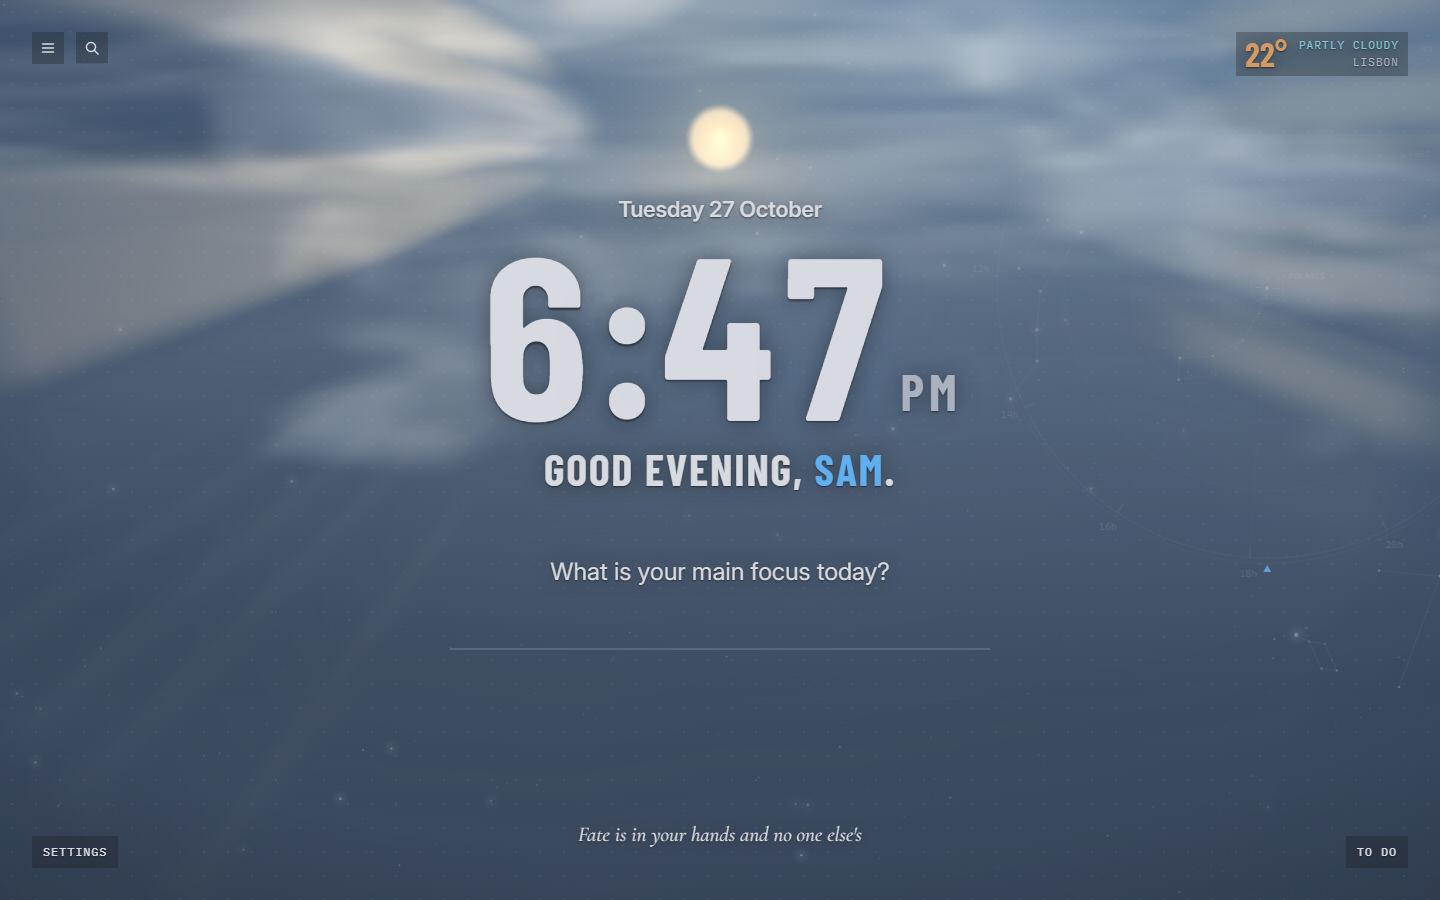
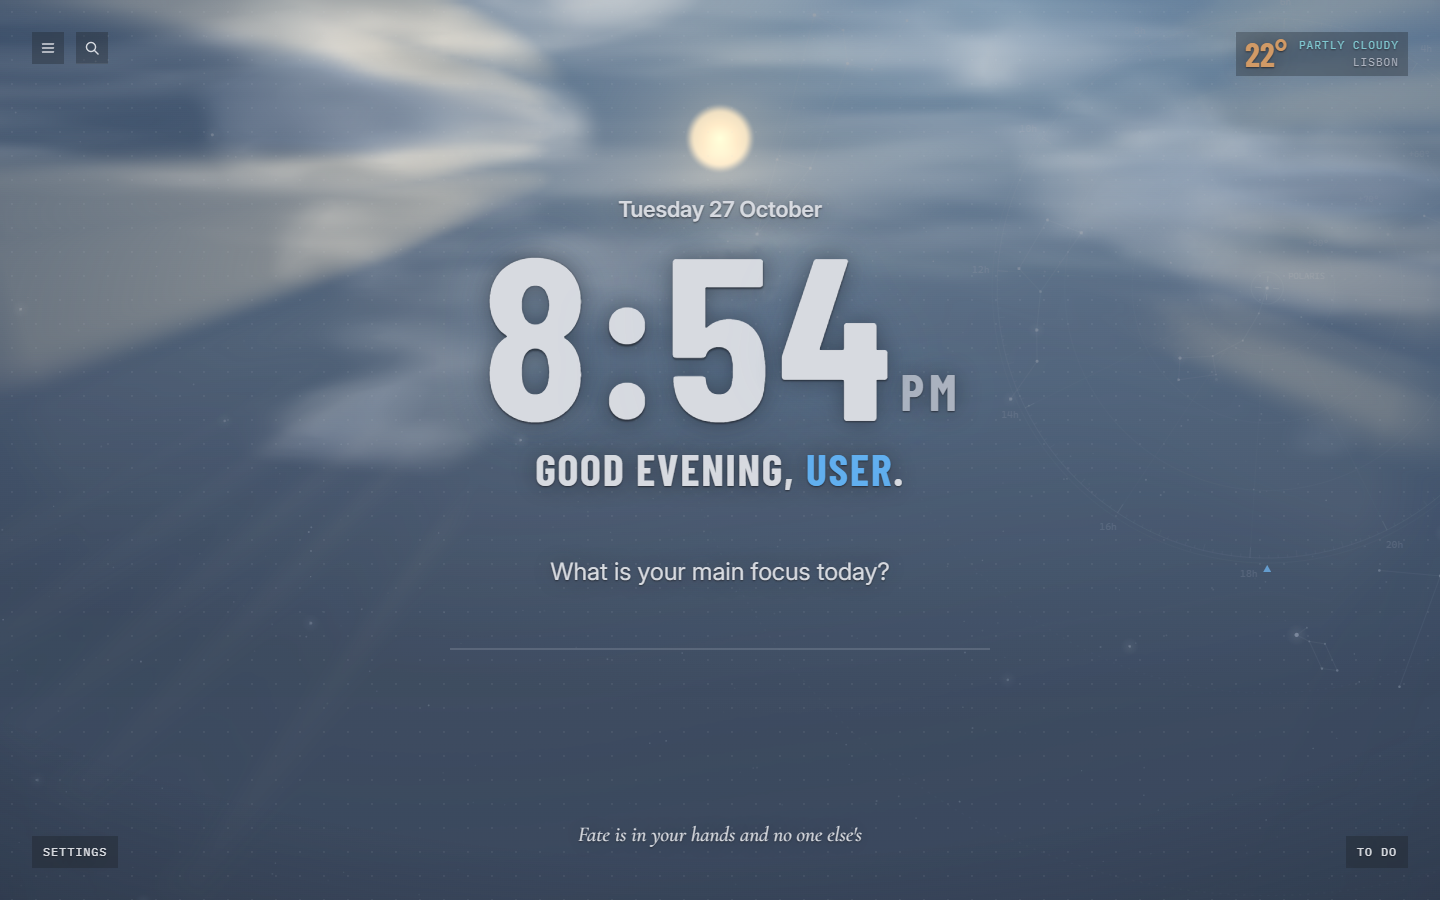
Add release zips and a GitHub Pages demo, use a neutral name in screenshots

diff --git a/tools/release.ts b/tools/release.ts
@@ -1,0 +1,37 @@
+// Builds release/: a zip of each extension for GitHub releases, and site/, the new tab as a static demo.
+import { execFileSync } from 'node:child_process';
+import { cpSync, mkdirSync, rmSync, writeFileSync } from 'node:fs';
+import { join } from 'node:path';
+import { build, EXTENSIONS, root } from './extensions.ts';
+
+const out = join(root, 'release');
+const stage = join(out, 'stage');
+
+function zip(dir: string, folder: string, file: string): void {
+  // Windows and macOS ship bsdtar, which writes zips; Linux has zip.
+  if (process.platform === 'win32') {
+    execFileSync(join(process.env.SystemRoot ?? 'C:/Windows', 'System32', 'tar.exe'), ['-a', '-cf', file, folder], { cwd: dir });
+  } else if (process.platform === 'darwin') {
+    execFileSync('tar', ['-a', '-cf', file, folder], { cwd: dir });
+  } else {
+    execFileSync('zip', ['-qr', file, folder], { cwd: dir });
+  }
+}
+
+build();
+rmSync(out, { recursive: true, force: true });
+
+for (const { slug, src, files } of EXTENSIONS) {
+  const dest = join(stage, slug);
+  for (const f of files) cpSync(join(root, src, f), join(dest, f), { recursive: true });
+  zip(stage, slug, join(out, `${slug}.zip`));
+  console.log(`release/${slug}.zip`);
+}
+
+const site = join(out, 'site');
+for (const f of ['newtab.css', 'onedark.css', 'dist', 'data', 'vendor']) cpSync(join(root, 'newtab', f), join(site, f), { recursive: true });
+cpSync(join(root, 'newtab', 'newtab.html'), join(site, 'index.html'));
+// GitHub Pages runs Jekyll by default, which drops files starting with "_" such as vendor/backdrops/_core.js.
+writeFileSync(join(site, '.nojekyll'), '');
+rmSync(stage, { recursive: true, force: true });
+console.log('release/site/');

diff --git a/tools/pages.ts b/tools/pages.ts
@@ -1,0 +1,36 @@
+// Commits release/site/ to the gh-pages branch and pushes it. Run `pnpm run release` first.
+import { execFileSync } from 'node:child_process';
+import { existsSync, mkdtempSync, rmSync } from 'node:fs';
+import { tmpdir } from 'node:os';
+import { join } from 'node:path';
+import { root } from './extensions.ts';
+
+const site = join(root, 'release', 'site');
+if (!existsSync(join(site, 'index.html'))) throw new Error('release/site is missing; run `pnpm run release` first.');
+
+// A separate index stages the site without touching the working tree or the current branch.
+const tmp = mkdtempSync(join(tmpdir(), 'pages-'));
+const env = { ...process.env, GIT_INDEX_FILE: join(tmp, 'index') };
+const git = (...args: string[]) => execFileSync('git', args, { cwd: root, env, encoding: 'utf8' }).trim();
+
+try {
+  git(`--work-tree=${site}`, 'add', '--all', '--force', '.');
+  const tree = git('write-tree');
+  const source = git('rev-parse', '--short', 'HEAD');
+  let parent: string[] = [];
+  try {
+    git('fetch', 'origin', 'gh-pages');
+    parent = ['-p', git('rev-parse', 'FETCH_HEAD')];
+  } catch {
+    // First deploy: the branch doesn't exist yet.
+  }
+  if (parent.length && git('rev-parse', `${parent[1]}^{tree}`) === tree) {
+    console.log('gh-pages is already up to date.');
+  } else {
+    const commit = git('commit-tree', tree, ...parent, '-m', `Deploy demo from ${source}`);
+    git('push', 'origin', `${commit}:refs/heads/gh-pages`);
+    console.log(`Pushed ${commit.slice(0, 7)} to gh-pages.`);
+  }
+} finally {
+  rmSync(tmp, { recursive: true, force: true });
+}

diff --git a/tools/export.ts b/tools/export.ts
@@ -1,22 +1,13 @@
 // Builds the new tab and copies both unpacked extensions to ~/DevApps/Nightglass (or EXPORT_DIR).
-import { execSync } from 'node:child_process';
 import { cpSync, mkdirSync, rmSync } from 'node:fs';
 import { homedir } from 'node:os';
-import { join, resolve } from 'node:path';
+import { join } from 'node:path';
+import { build, EXTENSIONS, root } from './extensions.ts';
 
-const root = resolve(import.meta.dirname, '..');
 const out = process.env.EXPORT_DIR ?? join(homedir(), 'DevApps', 'Nightglass');
 
-const targets: [string, string, string[]][] = [
-  ['Nightglass Theme', 'theme', ['manifest.json', 'images']],
-  ['Nightglass New Tab', 'newtab', ['manifest.json', 'newtab.html', 'newtab.css', 'onedark.css', 'dist', 'data', 'vendor']],
-];
-
-// A clean build, so modules that were renamed or removed don't ship.
-rmSync(join(root, 'newtab', 'dist'), { recursive: true, force: true });
-execSync('pnpm run build', { cwd: root, stdio: 'inherit' });
-
-for (const [name, src, files] of targets) {
+build();
+for (const { name, src, files } of EXTENSIONS) {
   const dest = join(out, name);
   // Replacing the folder also drops the browser's stale "Cached Theme.pak".
   rmSync(dest, { recursive: true, force: true });

diff --git a/tools/extensions.ts b/tools/extensions.ts
@@ -1,0 +1,22 @@
+// The two extensions' folders and the files each ships, shared by the export and release scripts.
+import { execSync } from 'node:child_process';
+import { rmSync } from 'node:fs';
+import { join, resolve } from 'node:path';
+
+export const root = resolve(import.meta.dirname, '..');
+
+export const EXTENSIONS = [
+  { name: 'Nightglass Theme', slug: 'nightglass-theme', src: 'theme', files: ['manifest.json', 'images'] },
+  {
+    name: 'Nightglass New Tab',
+    slug: 'nightglass-new-tab',
+    src: 'newtab',
+    files: ['manifest.json', 'newtab.html', 'newtab.css', 'onedark.css', 'dist', 'data', 'vendor'],
+  },
+] as const;
+
+/** A clean build, so modules that were renamed or removed don't ship. */
+export function build(): void {
+  rmSync(join(root, 'newtab', 'dist'), { recursive: true, force: true });
+  execSync('pnpm run build', { cwd: root, stdio: 'inherit' });
+}

diff --git a/tools/screenshots.ts b/tools/screenshots.ts
@@ -12,7 +12,7 @@ const out = join(root, 'docs', 'screenshots');
 const W = 1440, H = 900;
 
 // Demo data, so no real name or location appears in the images.
-const NAME = 'Sam';
+const NAME = 'User';
 const PLACE = { name: 'Lisbon, Lisbon, PT', lat: 38.717, lon: -9.133, tz: 'Europe/Lisbon' };
 
 interface Scene { name: string; query: string; code: number; temp: number; settings?: boolean }

diff --git a/README.md b/README.md
@@ -4,6 +4,8 @@ A browser theme and new tab page for Chrome and Brave, in One Dark colors.
 
 The new tab has a clock, a daily focus, to-dos, links, weather and a quote. The background is a star chart with the sun, moon and current weather drawn on top.
 
+[Try the new tab in your browser](https://xiaoyu-ben-wang.github.io/nightglass/). The demo stores its settings in the page instead of syncing them.
+
 ![New tab, partly cloudy](docs/screenshots/day.png)
 
 | | |
@@ -24,12 +26,16 @@ The theme and new tab are separate extensions because browser themes only suppor
 
 ## Install
 
+Download `nightglass-theme.zip` and `nightglass-new-tab.zip` from the [latest release](https://github.com/Xiaoyu-Ben-Wang/nightglass/releases/latest) and unzip them. Open `chrome://extensions` (or `brave://extensions`), turn on Developer mode, click **Load unpacked**, and select each unzipped folder.
+
+To load from the repo instead:
+
 ```bash
 pnpm install
 pnpm run build
 ```
 
-Open `chrome://extensions` (or `brave://extensions`), turn on Developer mode, click **Load unpacked**, and select `theme/`, then `newtab/`. After editing `newtab/src/`, run the build again and reload the extension.
+Then load `theme/` and `newtab/` the same way. After editing `newtab/src/`, run the build again and reload the extension.
 
 To install a copy outside the repo:
 
@@ -136,6 +142,8 @@ URL parameters for testing the sky:
 | `pnpm run watch` | Compiles on change |
 | `pnpm run check` | Type-checks |
 | `pnpm run export` | Builds and copies both extensions out of the repo |
+| `pnpm run release` | Writes both extension zips and the demo site to `release/` |
+| `pnpm run pages` | Pushes `release/site/` to the `gh-pages` branch |
 | `pnpm run screenshots` | Regenerates `docs/screenshots/` (run `build` first) |
 | `pnpm run frame` | Renders the theme's frame image |
 
